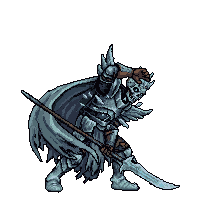
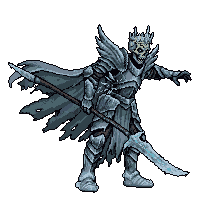
Roster fix: lich/boss_hurt approved (R285; one skull, crown kept, 200x200 cell)

diff --git a/docs/ACT1_LOG.md b/docs/ACT1_LOG.md
@@ -457,5 +457,6 @@ made with `--paid --max-paid 1` after a dry run.
 | R282 | red_piranha/monster (1236, key `19a3bccfa97e214bd940ce6a`, `--retry`, attempt 3 of 3; the orchestrator's final wording: a stocky deep-bodied river fish in rust-orange and dark bronze scales, a heavy jutting lower jaw, no "teeth" or "fierce") | 1 | **Accepted by Gemini** (the first red_piranha image): a stocky rust-orange fish with dark bronze scale rows, a thick bony bronze head plate, a heavy jutting lower jaw, a yellow eye, spiky fins and a ragged forked tail; idle clean, attack = darting forward with the heavy jaw dropped open (`pose_diff` 0.26). Heights 51 / 52 / 45, an 88 px cell, binary alpha, 16 colours, one piece per cell. Sibling check vs `bigeyes` (an eyeball with fins) and the deferred silver-green `piranha` (R157): bronze, deep-bodied, armoured head. **Fails review:** the hurt is drawn lower in the raw than the idle and the shared floating offset **slices its belly and lower fin on the bottom row** (lowest row 79, 44 border pixels) | **rejected** (no 4th attempt, D9) |
 | R283 | red_piranha/monster: none approvable | 0 | R160 and R277 returned no image; R282 fails the border check in the hurt. The wording fix worked for the safety filter (bronze / rust, an anatomical jaw, no "teeth" or "fierce"). **0-image recovery:** the R282 raw (cached, key `19a3bccfa97e214bd940ce6a`) is whole, so a framework change that lifts any floating action frame clear of the bottom row (a per-frame offset clamp in `monster.cut`) would let `generate.py --repixelize` re-cut it offline; the same holds for `white_shark` R278-R280 | **deferred** (no data entry) |
 | R284 | lich/boss_hurt (1235, key `5062660e8975aace5d8b9754`, `--retry`; ROSTER_FIX_PLAN defect 3: the new `hurt:` text, "the skull head with its ice crown stays upright on the neck ... one head only, the free arm thrown out to the side (never across the face)") | 1 | The identity defect is fixed: **one skull head with the ice crown**, centred on the neck, no helm, the same armour, pauldrons, mantle and glaive; 183 px, lowest row 192, top row 10, x 7-192, a 200x200 cell (no widening), no border pixels, binary alpha, 15 colours, one piece. **Fails review:** the glaive is held the other way round from the idle (the ice blade low on the left, the spearhead up on the right: a 180-degree prop flip the rig cannot bridge), and the pose reads as a turning stride toward the heroes with the mantle streaming back, not a recoil away from them | **rejected**; the one allowed retry follows (seed 1236, `--retry`; still facing right with the chest and skull toward the viewer as in Image 3, leaning back to the left, "the glaive held the same way round as in Image 3, in the same hand, its ice blade low on the right and its spearhead end up on the left") |
+| R285 | lich/boss_hurt (1236, key `3304619948e1b2589d8b5689`, `--retry`, the one allowed retry; still facing right with the chest and skull toward the viewer, leaning back, the glaive held the same way round as in the idle) | 1 | **One skull head with the ice crown**, upright and centred on the neck, the cyan eye lights and toothed jaw readable; the same blackened-iron plate, frozen-wing pauldrons, tattered mantle (blown back to the left) and glaive, **held the same way round as in the idle** (spearhead up on the left, ice blade low on the right, in the image-left hand); leaning back with the free arm thrown out to the side, knees bent, no arm across the face. 169 px (idle 184), lowest row 192, top row 24, x 8-191, **a 200x200 cell** (no widening), no border pixels, binary alpha, 16 colours, one piece. **Cell check (defect 3 (d)):** all five lich keyframes are 200x200, so `pad_keyframes` returns them untouched (grid [200, 200], `bottom_row` 192, as before); `boss_idle`, `boss_attack`, `boss_cast`, `boss_attack_raise` (.png/.json) are byte-identical to HEAD, so their atlas frames cannot change (the integrator's frame-rect diff confirms after the rebuild); all five lich request keys recompute to their approved, cached keys. Nits: the recoil is moderate (an upright lean back rather than a heavy stagger); the free arm reaches toward the heroes' side | **self-approved** (pass R fix, attempt 2 of 2 planned); rig follows (defect 3 rig step, `fix-rig-lich`) |
 
-**Images used (pass R):** 264 of 300 (build 263 of 285, closed; fix 1; ledger guard: 364 Gemini attempts − N0 100).
+**Images used (pass R):** 265 of 300 (build 263 of 285, closed; fix 2; ledger guard: 365 Gemini attempts − N0 100).

diff --git a/docs/ROSTER_LOG.md b/docs/ROSTER_LOG.md
@@ -17,7 +17,7 @@ first. `docs/ACT1_LOG.md` stays closed; every pass-R Gemini attempt gets one row
 (100 Gemini, 7 Bedrock), 107 `result` and 1 pre-ledger `note`, so a line count overstates it. Pass F closed at
 `gemini_end` 100; `pass R build` opened at `gemini_before` 100 with `max_new` 285.
 
-Images used: 264 of 300 (build 263 of 285, closed at N1 = 363; fix 1 of 37 open, the plan caps itself at 5; ledger guard: 364 Gemini attempts - 100)
+Images used: 265 of 300 (build 263 of 285, closed at N1 = 363; fix 2 of 37 open, the plan caps itself at 5; ledger guard: 365 Gemini attempts - 100)
 
 ## Attempts
 
@@ -530,3 +530,4 @@ Images used: 264 of 300 (build 263 of 285, closed at N1 = 363; fix 1 of 37 open,
 | # | Sheet (seed) | n | Measured result | Decision |
 |---|---|---|---|---|
 | R284 | lich/boss_hurt (1235, key `5062660e8975aace5d8b9754`, `--retry`; ROSTER_FIX_PLAN defect 3: the new `hurt:` text, "the skull head with its ice crown stays upright on the neck ... one head only, the free arm thrown out to the side (never across the face)") | 1 | The identity defect is fixed: **one skull head with the ice crown**, centred on the neck, no helm, the same armour, pauldrons, mantle and glaive; 183 px, lowest row 192, top row 10, x 7-192, a 200x200 cell (no widening), no border pixels, binary alpha, 15 colours, one piece. **Fails review:** the glaive is held the other way round from the idle (the ice blade low on the left, the spearhead up on the right: a 180-degree prop flip the rig cannot bridge), and the pose reads as a turning stride toward the heroes with the mantle streaming back, not a recoil away from them | **rejected**; the one allowed retry follows (seed 1236, `--retry`; still facing right with the chest and skull toward the viewer as in Image 3, leaning back to the left, "the glaive held the same way round as in Image 3, in the same hand, its ice blade low on the right and its spearhead end up on the left") |
+| R285 | lich/boss_hurt (1236, key `3304619948e1b2589d8b5689`, `--retry`, the one allowed retry; still facing right with the chest and skull toward the viewer, leaning back, the glaive held the same way round as in the idle) | 1 | **One skull head with the ice crown**, upright and centred on the neck, the cyan eye lights and toothed jaw readable; the same blackened-iron plate, frozen-wing pauldrons, tattered mantle (blown back to the left) and glaive, **held the same way round as in the idle** (spearhead up on the left, ice blade low on the right, in the image-left hand); leaning back with the free arm thrown out to the side, knees bent, no arm across the face. 169 px (idle 184), lowest row 192, top row 24, x 8-191, **a 200x200 cell** (no widening), no border pixels, binary alpha, 16 colours, one piece. **Cell check (defect 3 (d)):** all five lich keyframes are 200x200, so `pad_keyframes` returns them untouched (grid [200, 200], `bottom_row` 192, as before); `boss_idle`, `boss_attack`, `boss_cast`, `boss_attack_raise` (.png/.json) are byte-identical to HEAD, so their atlas frames cannot change (the integrator's frame-rect diff confirms after the rebuild); all five lich request keys recompute to their approved, cached keys. Nits: the recoil is moderate (an upright lean back rather than a heavy stagger); the free arm reaches toward the heroes' side | **self-approved** (pass R fix, attempt 2 of 2 planned); rig follows (defect 3 rig step, `fix-rig-lich`) |
